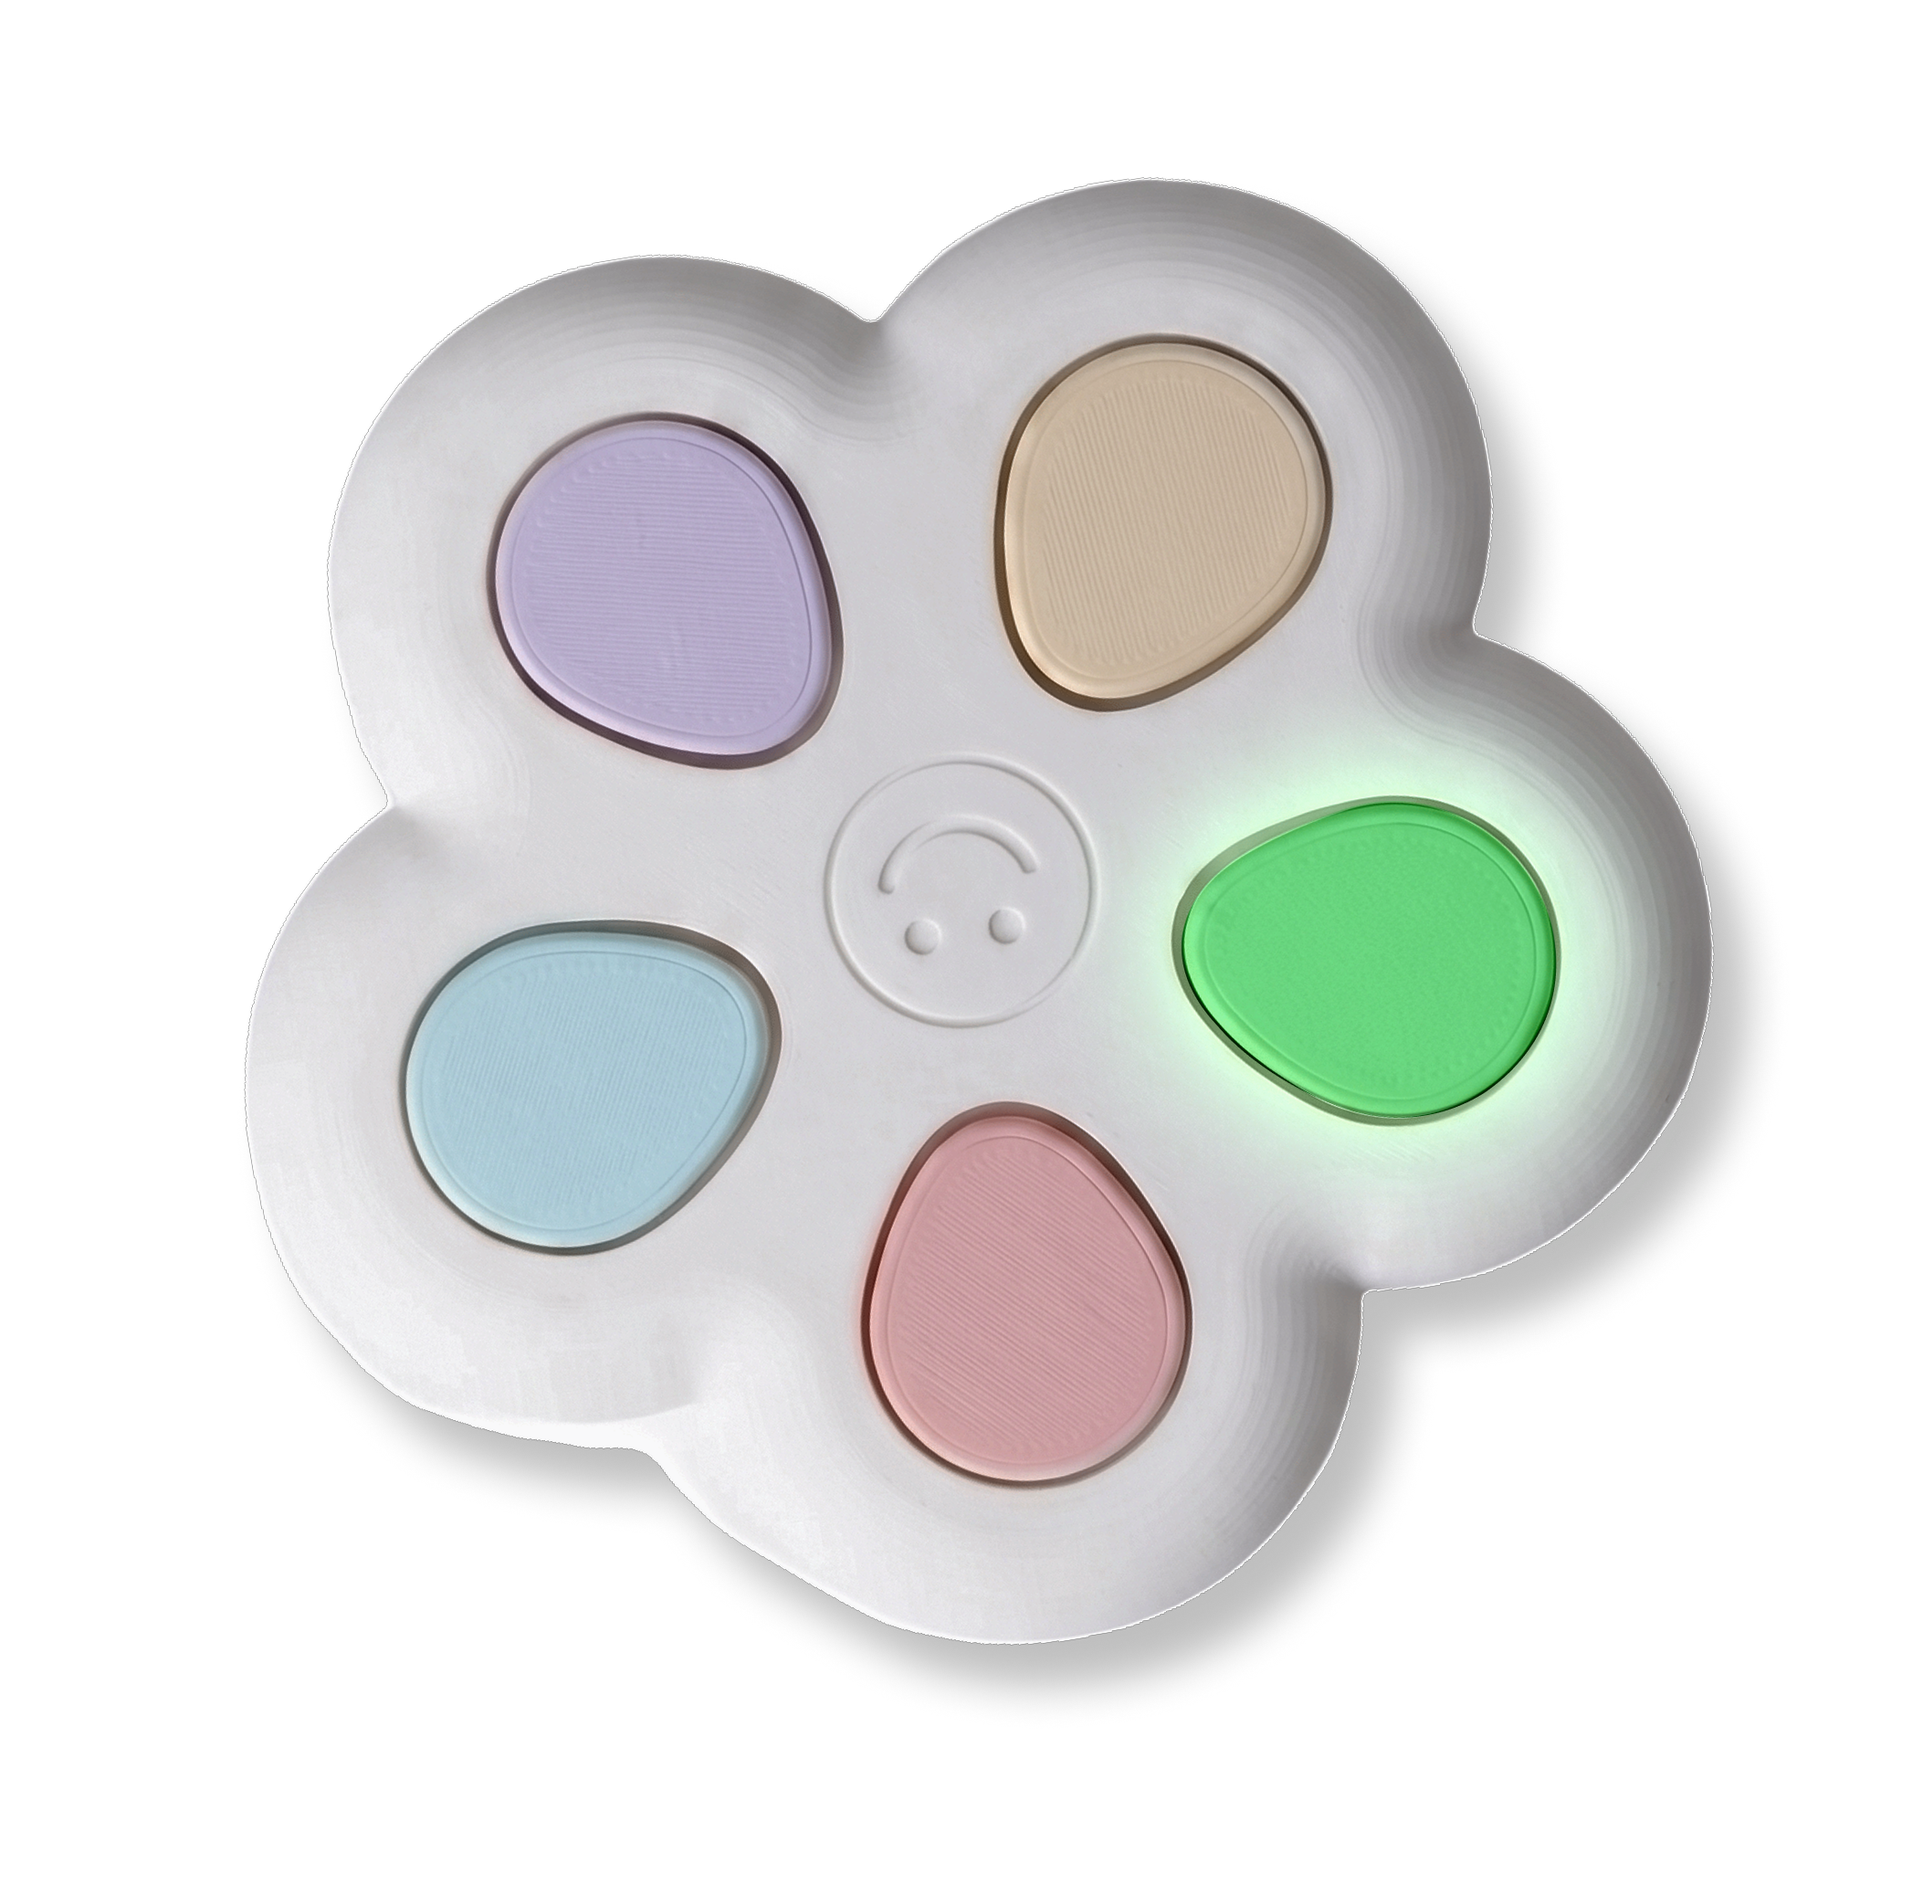
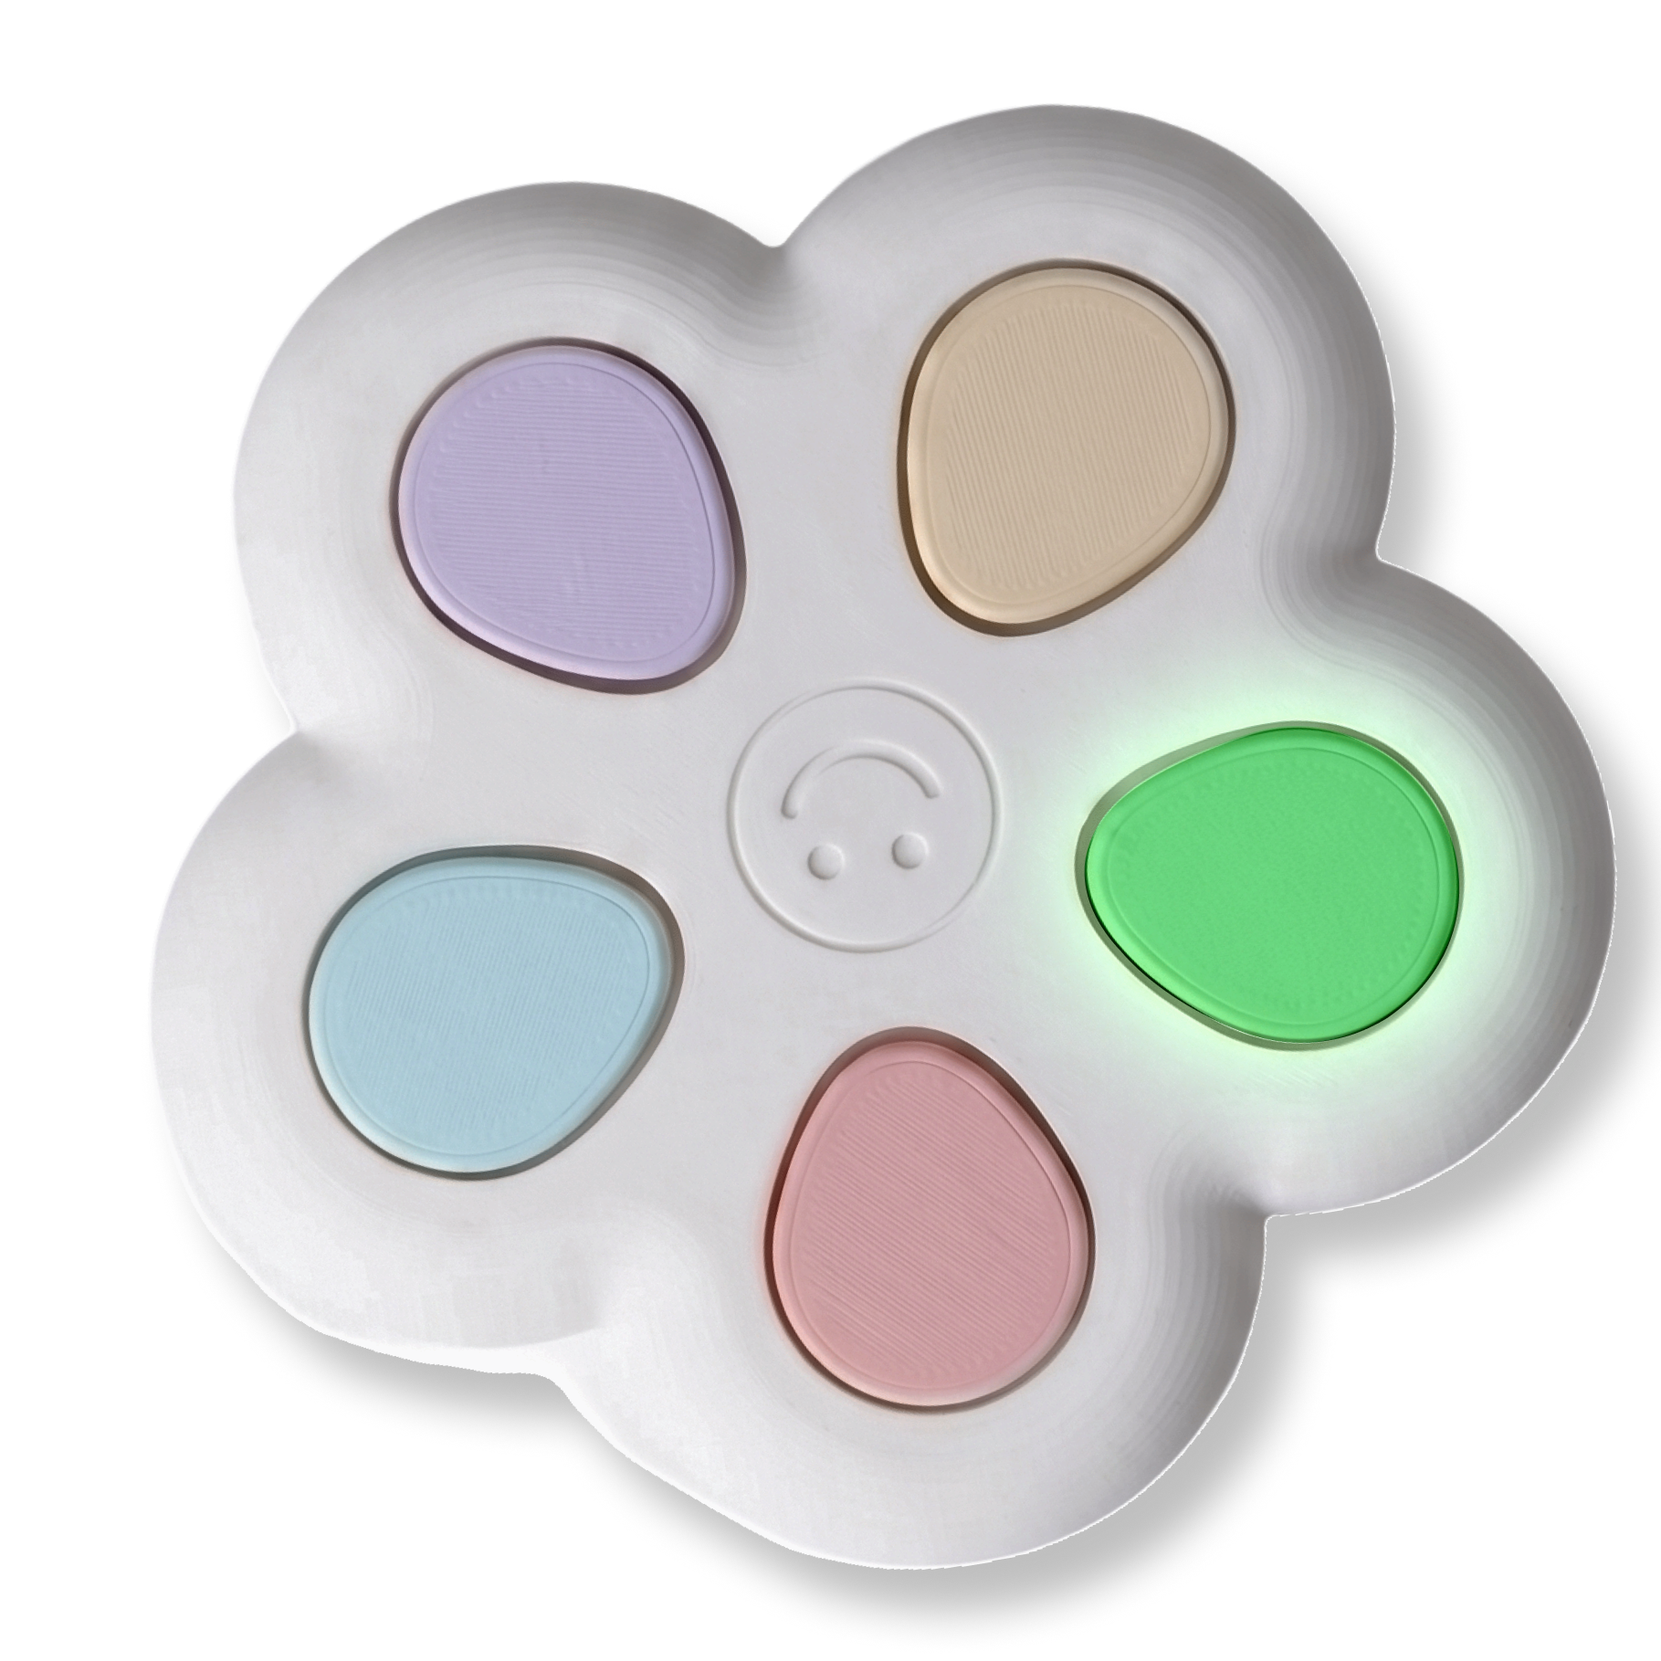
rotation
rotation

diff --git a/device_button.html b/device_button.html
@@ -104,7 +104,7 @@
   /* ── Device image — left overflow ── */
   .device-img-wrap {
     position: absolute;
-    left: -60%;
+    left: -70%;
     top: 50%;
     transform: translateY(-50%);
     width: 75%;
@@ -128,6 +128,7 @@
   left: 0;
   display: flex;
   align-items: center;
+    isolation: isolate;
 }
 
     .arc-img {
@@ -139,7 +140,7 @@
     object-fit: cover;
     object-position: center;
     pointer-events: none;
-    mix-blend-mode: multiply;
+    z-index: 1;
     }
 
     .emotion-list {
@@ -330,27 +331,22 @@
     </div>
     <p class="page-subtitle">What emotion would you like to track<br>on your Journey?</p>
 
-    <!-- Main content -->
-    <div class="content-area">
+<!-- Main content -->
+<div class="content-area">
 
-      <!-- Device image — overflows left -->
-    <div class="device-img-wrap">
+  <!-- Device image — overflows left -->
+  <div class="device-img-wrap">
     <img src="assets/flower_redactive.png" alt="FEEL Device" 
         onerror="this.style.opacity='0.15'"
-        style="width:1000px;height:1000px;object-fit:contain;">
-    </div>
-      <!-- Arc png -->
-        <div class="arc-area">
-        <img src="assets/arc.png" class="arc-img" alt="">
-        <div class="emotion-list" id="emotion-list"></div>
-        </div>
-
-        <!-- Emotion list -->
-        <div class="emotion-list" id="emotion-list"></div>
-      </div>
-
-    </div>
+        style="width:1000px;height: 1000px;object-fit:contain;">
   </div>
+
+  <!-- Arc png + emotion list -->
+  <div class="arc-area">
+    <img src="assets/arc.png" class="arc-img" alt="">
+    <div class="emotion-list" id="emotion-list"></div>
+  </div>
+
 </div>
 
 <!-- Emotion picker overlay -->
@@ -397,7 +393,31 @@ function getEmotion(name) {
   return EMOTIONS.find(e => e.name === name) || EMOTIONS[0];
 }
 
+// put these BEFORE renderList()
+const EMOTION_FLOWERS = {
+  '#67C8AF': 'assets/flower_greenactive.png',
+  '#77DEF8': 'assets/flower_blueactive.png',
+  '#B293EB': 'assets/flower_purpleactive.png',
+  '#FAC038': 'assets/flower_yellowactive.png',
+  '#EB585A': 'assets/flower_redactive.png',
+};
+
+function getFlowerForActive() {
+  const emo = getEmotion(BUTTONS[activeButton].emotion);
+  return EMOTION_FLOWERS[emo.color] || 'assets/flower_redactive.png';
+}
+
+function updateFlower() {
+  const img = document.querySelector('.device-img-wrap img');
+  if (img) img.src = getFlowerForActive();
+}
+
+// then renderList() and at the very bottom:
+renderList();
+initNav('emotions');
+
 function renderList() {
+    updateFlower();
   const list = document.getElementById('emotion-list');
   list.innerHTML = '';
 
@@ -450,7 +470,6 @@ function renderList() {
     row.onclick = () => { activeButton = i; renderList(); };
     const editIcon = row.querySelector('.edit-icon');
     if (editIcon) {
-      editIcon.onclick = (e) => { e.stopPropagation(); openPicker(i); };
     }
     list.appendChild(row);
   });
@@ -545,6 +564,7 @@ function initNav(activePage) {
   centerBtn.addEventListener('click', e => { e.stopPropagation(); open = !open; scene.classList.toggle('open', open); });
   document.addEventListener('click', e => { if (open && !scene.contains(e.target)) { open = false; scene.classList.remove('open'); } });
 }
+
 
 initNav('emotions');
 </script>
